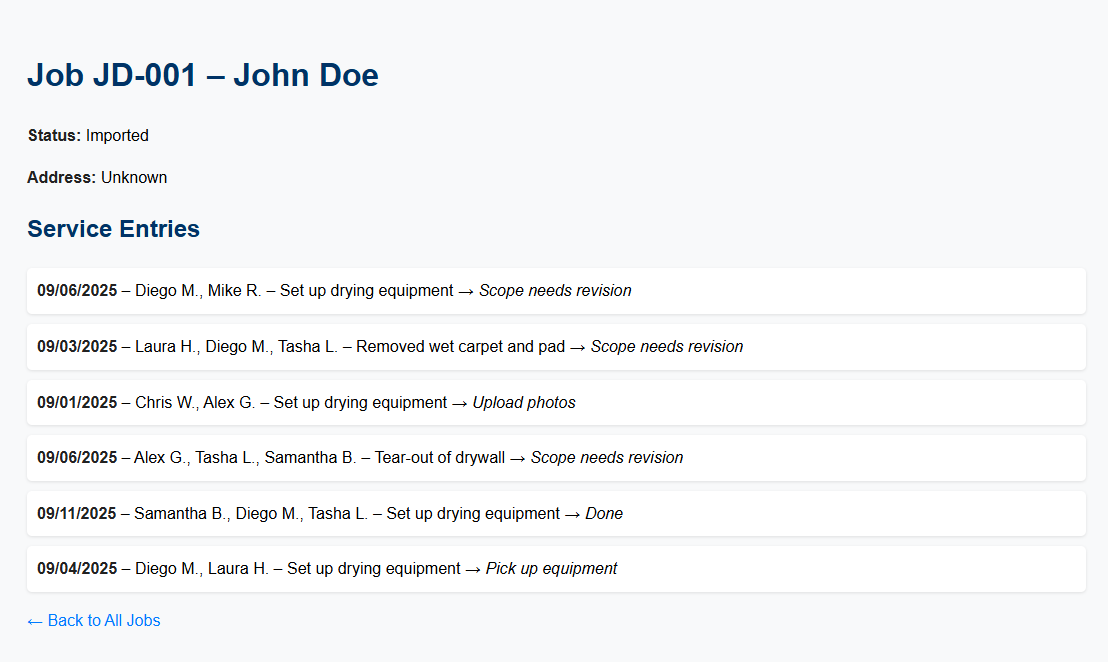
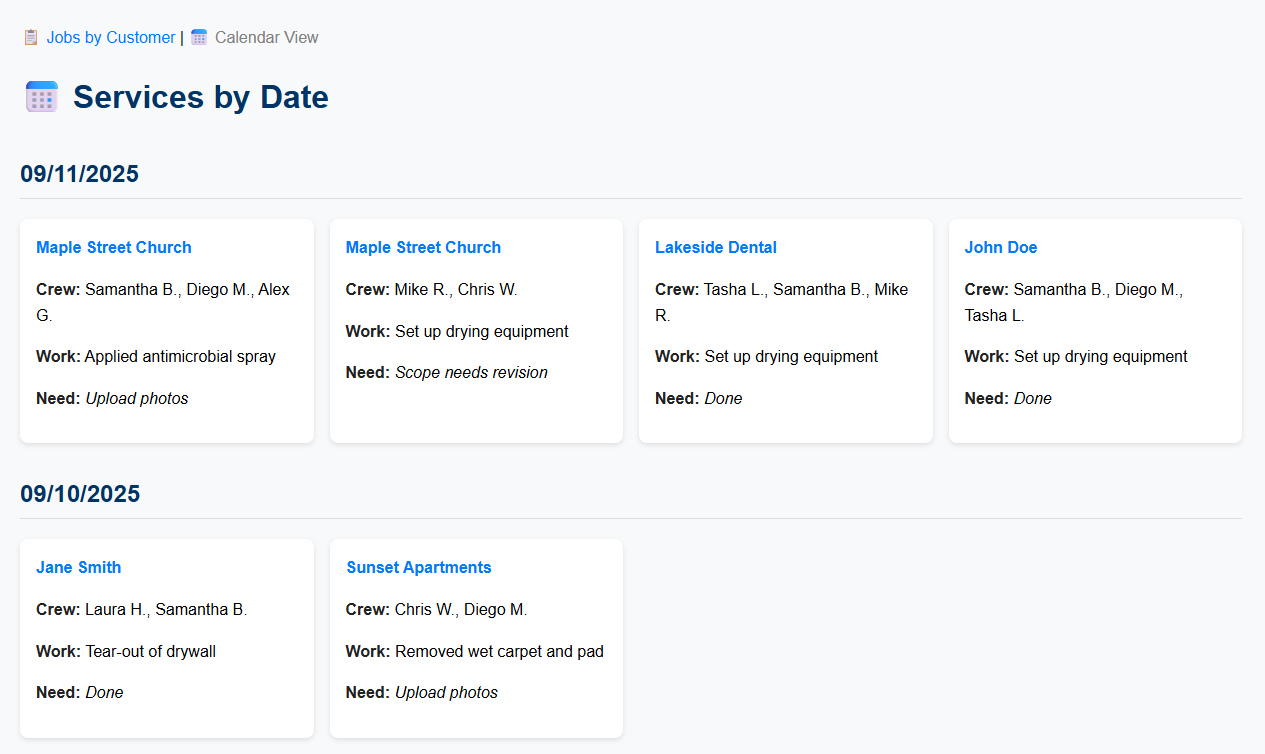
Create Schedule/Calendar View

diff --git a/src/main/resources/templates/jobs.html b/src/main/resources/templates/jobs.html
@@ -1,22 +1,45 @@
 <!DOCTYPE html>
 <html xmlns:th="http://www.thymeleaf.org">
 <head>
-    <title>Service Tracker</title>
+    <title>All Jobs</title>
     <link rel="stylesheet" th:href="@{/css/style.css}">
+    <script th:inline="javascript">
+        function toggleServices(jobId) {
+            const section = document.getElementById("services-" + jobId);
+            const btn = document.getElementById("toggle-btn-" + jobId);
+            if (section.style.display === "none") {
+                section.style.display = "block";
+                btn.textContent = "Hide Services ▲";
+            } else {
+                section.style.display = "none";
+                btn.textContent = "Show Services ▼";
+            }
+        }
+    </script>
 </head>
+<nav style="margin-bottom: 20px;">
+    <span style="color: gray;">📋 Jobs by Customer</span> |
+    <a href="/view/scheduler">📅 Calendar View</a>
+</nav>
 <body>
 <h1>All Jobs</h1>
 <ul>
     <li th:each="job : ${jobs}">
-        <strong th:text="${job.jobNumber}">Job Number</strong><br/>
-        <a th:href="@{/jobs/{id}(id=${job.id})}" th:text="${job.customer}">Customer</a>
-        <span th:text="${job.status}">Status</span><br/>
-        <em>Services:</em>
-        <ul>
+        <div>
+            <strong th:text="${job.jobNumber}">Job Number</strong> –
+            <a th:href="@{/jobs/{id}(id=${job.id})}" th:text="${job.customer}">Customer</a>
+            <button
+                    th:id="'toggle-btn-' + ${job.id}"
+                    th:onclick="'toggleServices(' + ${job.id} + ')'">
+                Show Services ▼
+            </button>
+        </div>
+
+        <ul th:id="'services-' + ${job.id}" style="display: none;">
             <li th:each="service : ${job.services}">
-                <span th:text="${service.date}">Date</span> –
-                <span th:text="${service.workPerformed}">Work</span>
-                (<span th:text="${service.need}">Need</span>)
+                <span th:text="${#temporals.format(service.date, 'MM/dd/yyyy')}">Date</span> –
+                <span th:text="${service.workPerformed}">Work</span> →
+                <em th:text="${service.need}">Need</em>
             </li>
         </ul>
     </li>

diff --git a/src/main/resources/templates/scheduler.html b/src/main/resources/templates/scheduler.html
@@ -1,0 +1,72 @@
+<!DOCTYPE html>
+<html xmlns:th="http://www.thymeleaf.org">
+<head>
+    <title>Scheduler View</title>
+    <link rel="stylesheet" th:href="@{/css/style.css}">
+    <style>
+        .grid {
+            display: grid;
+            grid-template-columns: repeat(auto-fill, minmax(280px, 1fr));
+            gap: 16px;
+            margin-bottom: 2rem;
+        }
+
+        .card {
+            background-color: white;
+            border-radius: 8px;
+            padding: 1rem;
+            box-shadow: 0 2px 5px rgba(0,0,0,0.1);
+        }
+
+        .card h3 {
+            margin: 0 0 0.5rem 0;
+            font-size: 1rem;
+        }
+
+        .card a {
+            color: #007bff;
+            text-decoration: none;
+        }
+
+        .card a:hover {
+            text-decoration: underline;
+        }
+
+        h2 {
+            margin-top: 2rem;
+            border-bottom: 1px solid #ddd;
+            padding-bottom: 0.3rem;
+        }
+    </style>
+</head>
+<body>
+
+<nav style="margin-bottom: 20px;">
+    <a href="/view/jobs">📋 Jobs by Customer</a> |
+    <span style="color: gray;">📅 Calendar View</span>
+</nav>
+
+<h1>📅 Services by Date</h1>
+
+<!-- Grouped by date -->
+<div th:each="entry : ${groupedServices}">
+    <h2 th:text="${#temporals.format(entry.key, 'MM/dd/yyyy')}">Date</h2>
+
+    <div class="grid">
+        <!-- Each service entry becomes a tile -->
+        <div class="card" th:each="service : ${entry.value}">
+            <h3>
+                <a th:href="@{/jobs/{id}(id=${service.job.id})}"
+                   th:text="${service.job.customer}">
+                    Customer Name
+                </a>
+            </h3>
+            <p><strong>Crew:</strong> <span th:text="${service.crew}">Crew</span></p>
+            <p><strong>Work:</strong> <span th:text="${service.workPerformed}">Work</span></p>
+            <p><strong>Need:</strong> <em th:text="${service.need}">Need</em></p>
+        </div>
+    </div>
+</div>
+
+</body>
+</html>

diff --git a/src/main/resources/static/css/style.css b/src/main/resources/static/css/style.css
@@ -34,3 +34,10 @@ li {
 strong {
     color: #222;
 }
+
+button {
+    margin-left: 10px;
+    padding: 4px 8px;
+    font-size: 0.9rem;
+    cursor: pointer;
+}

diff --git a/src/main/resources/templates/job-detail.html b/src/main/resources/templates/job-detail.html
@@ -19,6 +19,5 @@
     </li>
 </ul>
 
-<a href="/view/jobs">← Back to All Jobs</a>
 </body>
 </html>

diff --git a/src/main/java/org/example/jobtrackerspring/controller/ViewController.java b/src/main/java/org/example/jobtrackerspring/controller/ViewController.java
@@ -1,21 +1,28 @@
 package org.example.jobtrackerspring.controller;
 
 import org.example.jobtrackerspring.model.Job;
+import org.example.jobtrackerspring.model.ServiceEntry;
 import org.example.jobtrackerspring.repository.JobRepository;
+import org.example.jobtrackerspring.repository.ServiceEntryRepository;
+import org.springframework.data.domain.Sort;
 import org.springframework.stereotype.Controller;
 import org.springframework.web.bind.annotation.GetMapping;
 import org.springframework.ui.Model;
 import org.springframework.web.bind.annotation.PathVariable;
 
-import java.util.Optional;
+import java.time.LocalDate;
+import java.util.*;
+import java.util.stream.Collectors;
 
 @Controller
 public class ViewController {
 
     private final JobRepository jobRepo;
+    private final ServiceEntryRepository serviceRepo;
 
-    public ViewController(JobRepository jobRepo) {
+    public ViewController(JobRepository jobRepo, ServiceEntryRepository serviceRepo) {
         this.jobRepo = jobRepo;
+        this.serviceRepo = serviceRepo;
     }
 
     @GetMapping("/view/jobs")
@@ -33,5 +40,23 @@ public class ViewController {
 
         model.addAttribute("job", jobOpt.get());
         return "job-detail"; // maps to job-detail.html
+    }
+
+    @GetMapping("/view/scheduler")
+    public String viewScheduler(Model model) {
+        List<ServiceEntry> allServices = serviceRepo.findAll();
+
+        // Group services by date (LocalDate only, no time)
+        Map<LocalDate, List<ServiceEntry>> groupedByDate = allServices.stream()
+                .collect(Collectors.groupingBy(ServiceEntry::getDate));
+
+        // Sort by most recent date first
+        Map<LocalDate, List<ServiceEntry>> sortedByDateDesc = new TreeMap<>(Comparator.reverseOrder());
+        sortedByDateDesc.putAll(groupedByDate);
+
+        model.addAttribute("groupedServices", sortedByDateDesc);
+        model.addAttribute("currentPage", "scheduler");
+
+        return "scheduler";
     }
 }

diff --git a/README.md b/README.md
@@ -12,7 +12,7 @@ The program reads from a file called `servicelog.json` in `src/main/resources/da
 - [X] Initialize Project
 - [X] Create page for all active Jobs/Customers
 - [X] Create page for each Customer
+- [X] Create schedule/calendar view to see services by date
 - [ ] Allow users to edit Customer information
 - [ ] Allow users to edit/add new services for a Customer
 - [ ] Connect data to FireStoreDB to synchronize data across instances
-- [ ] Create schedule/calendar view to see services by date
